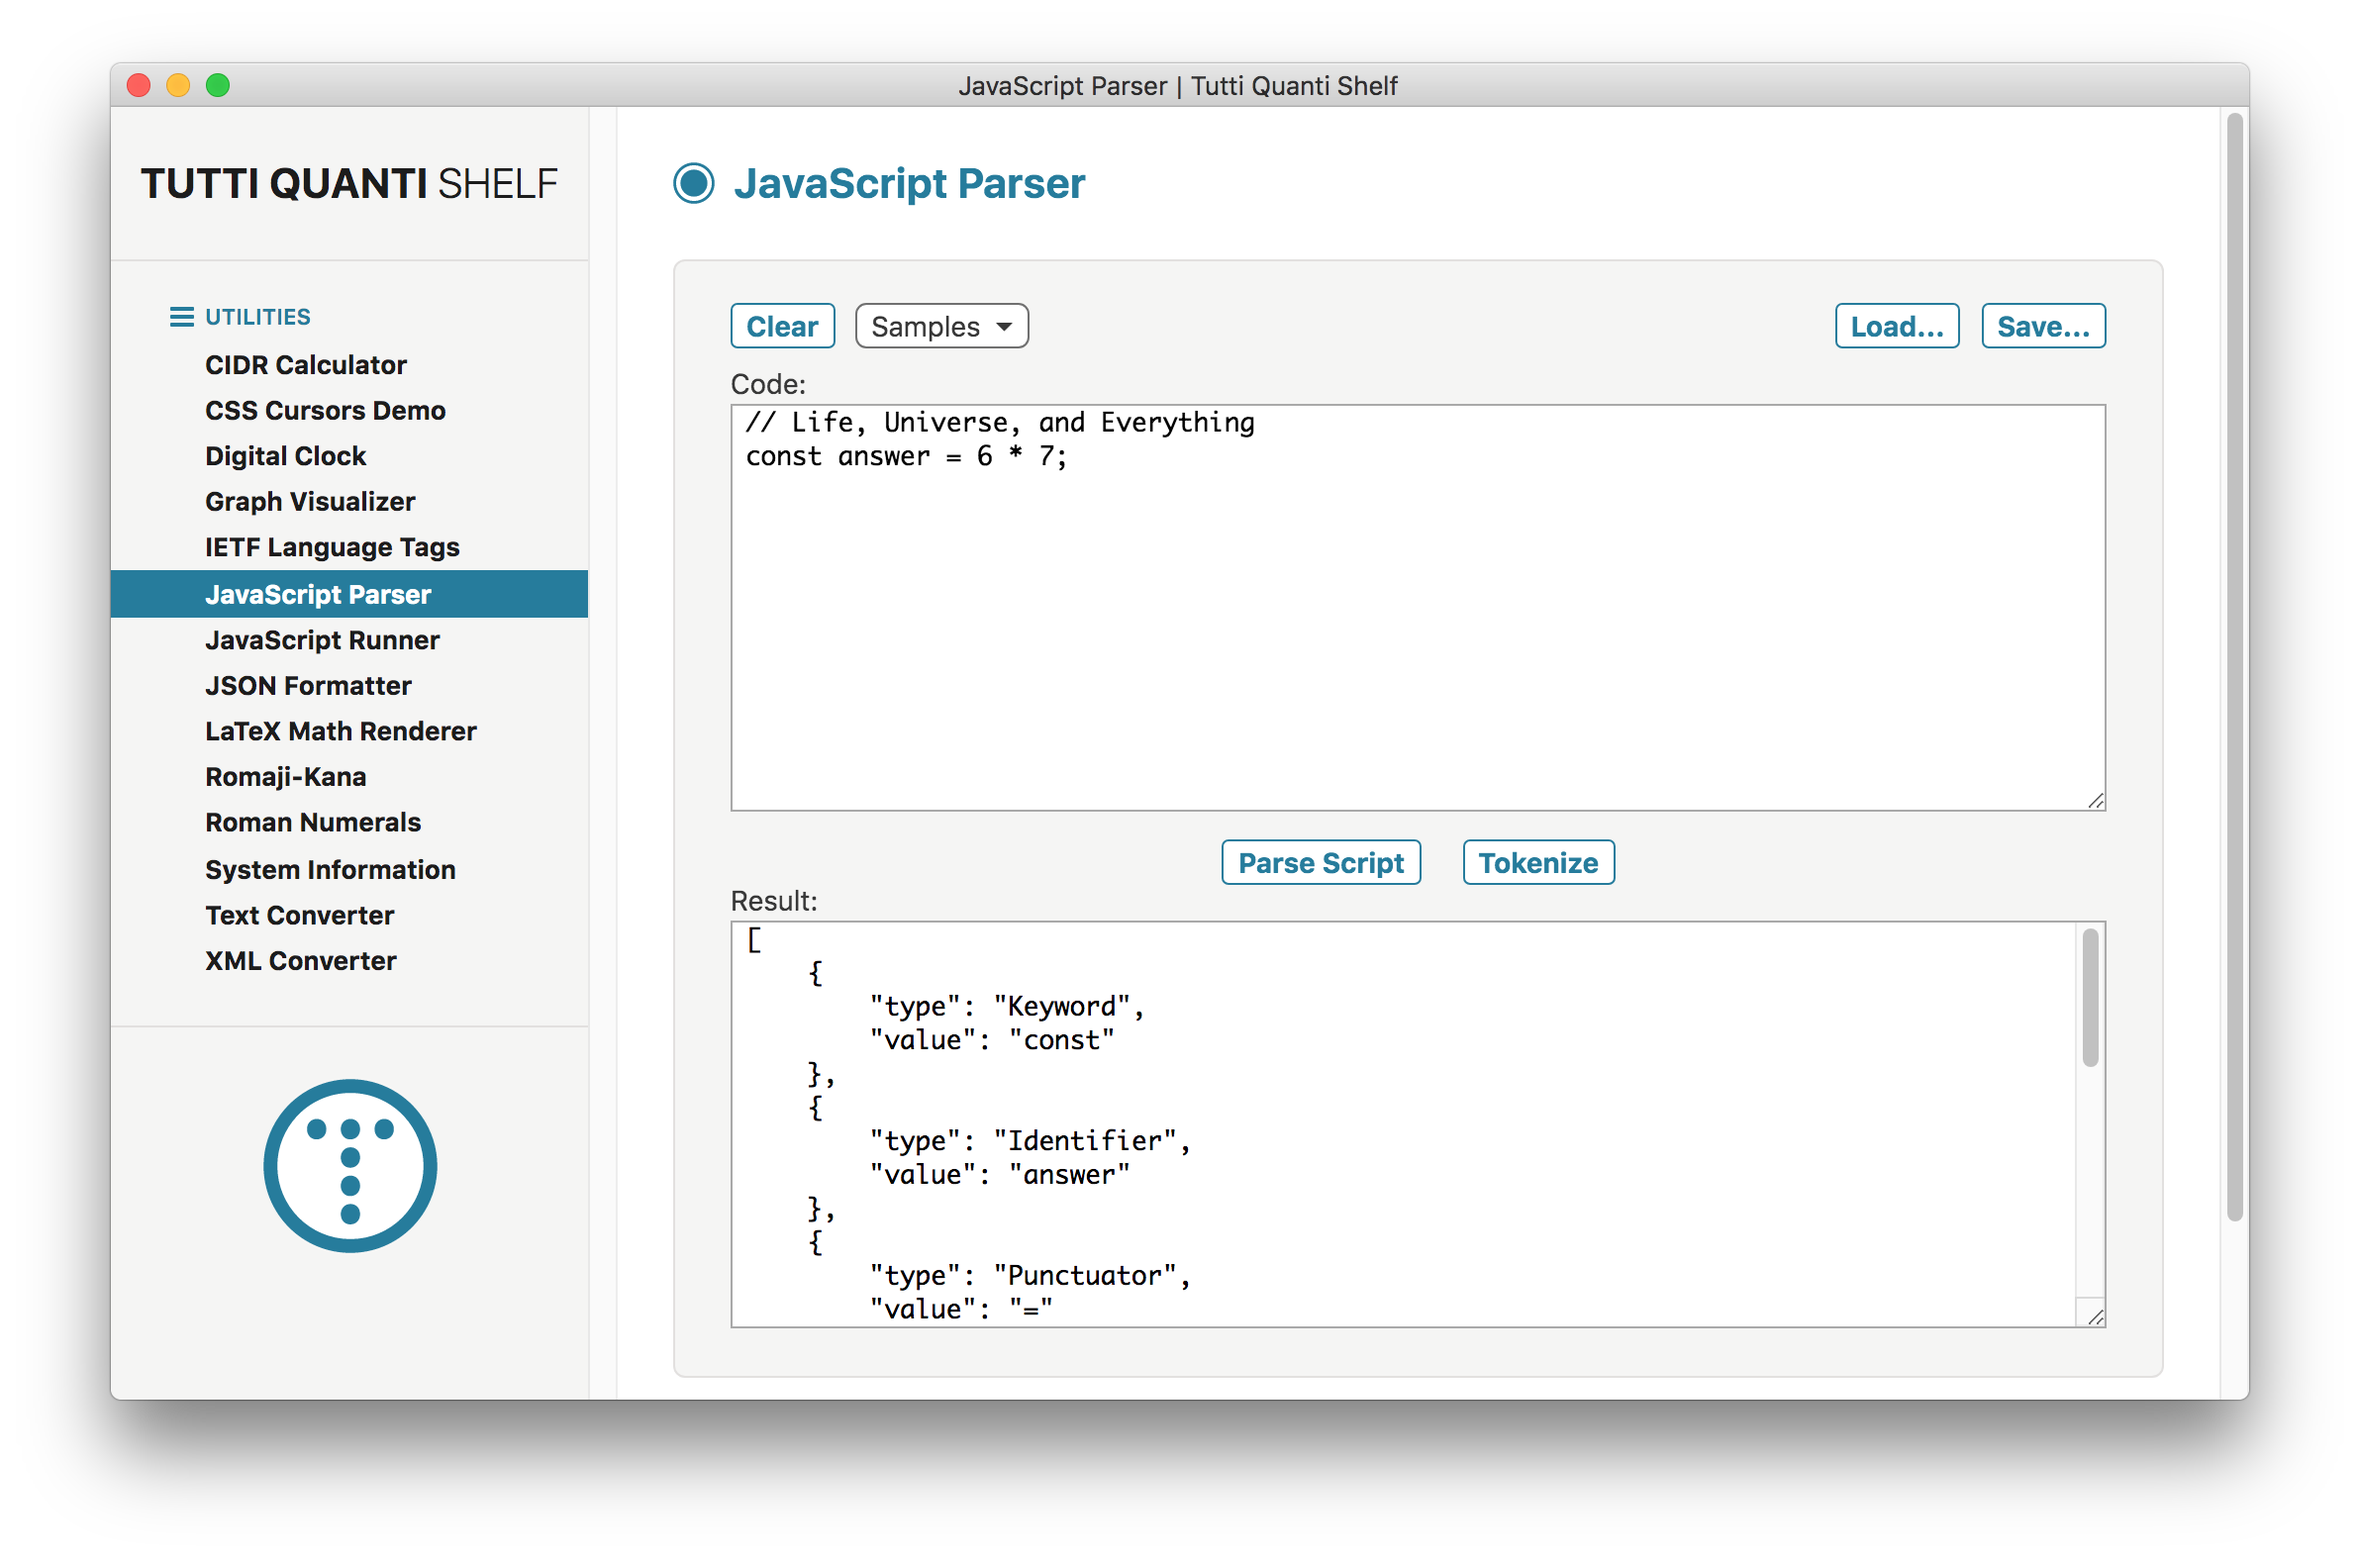
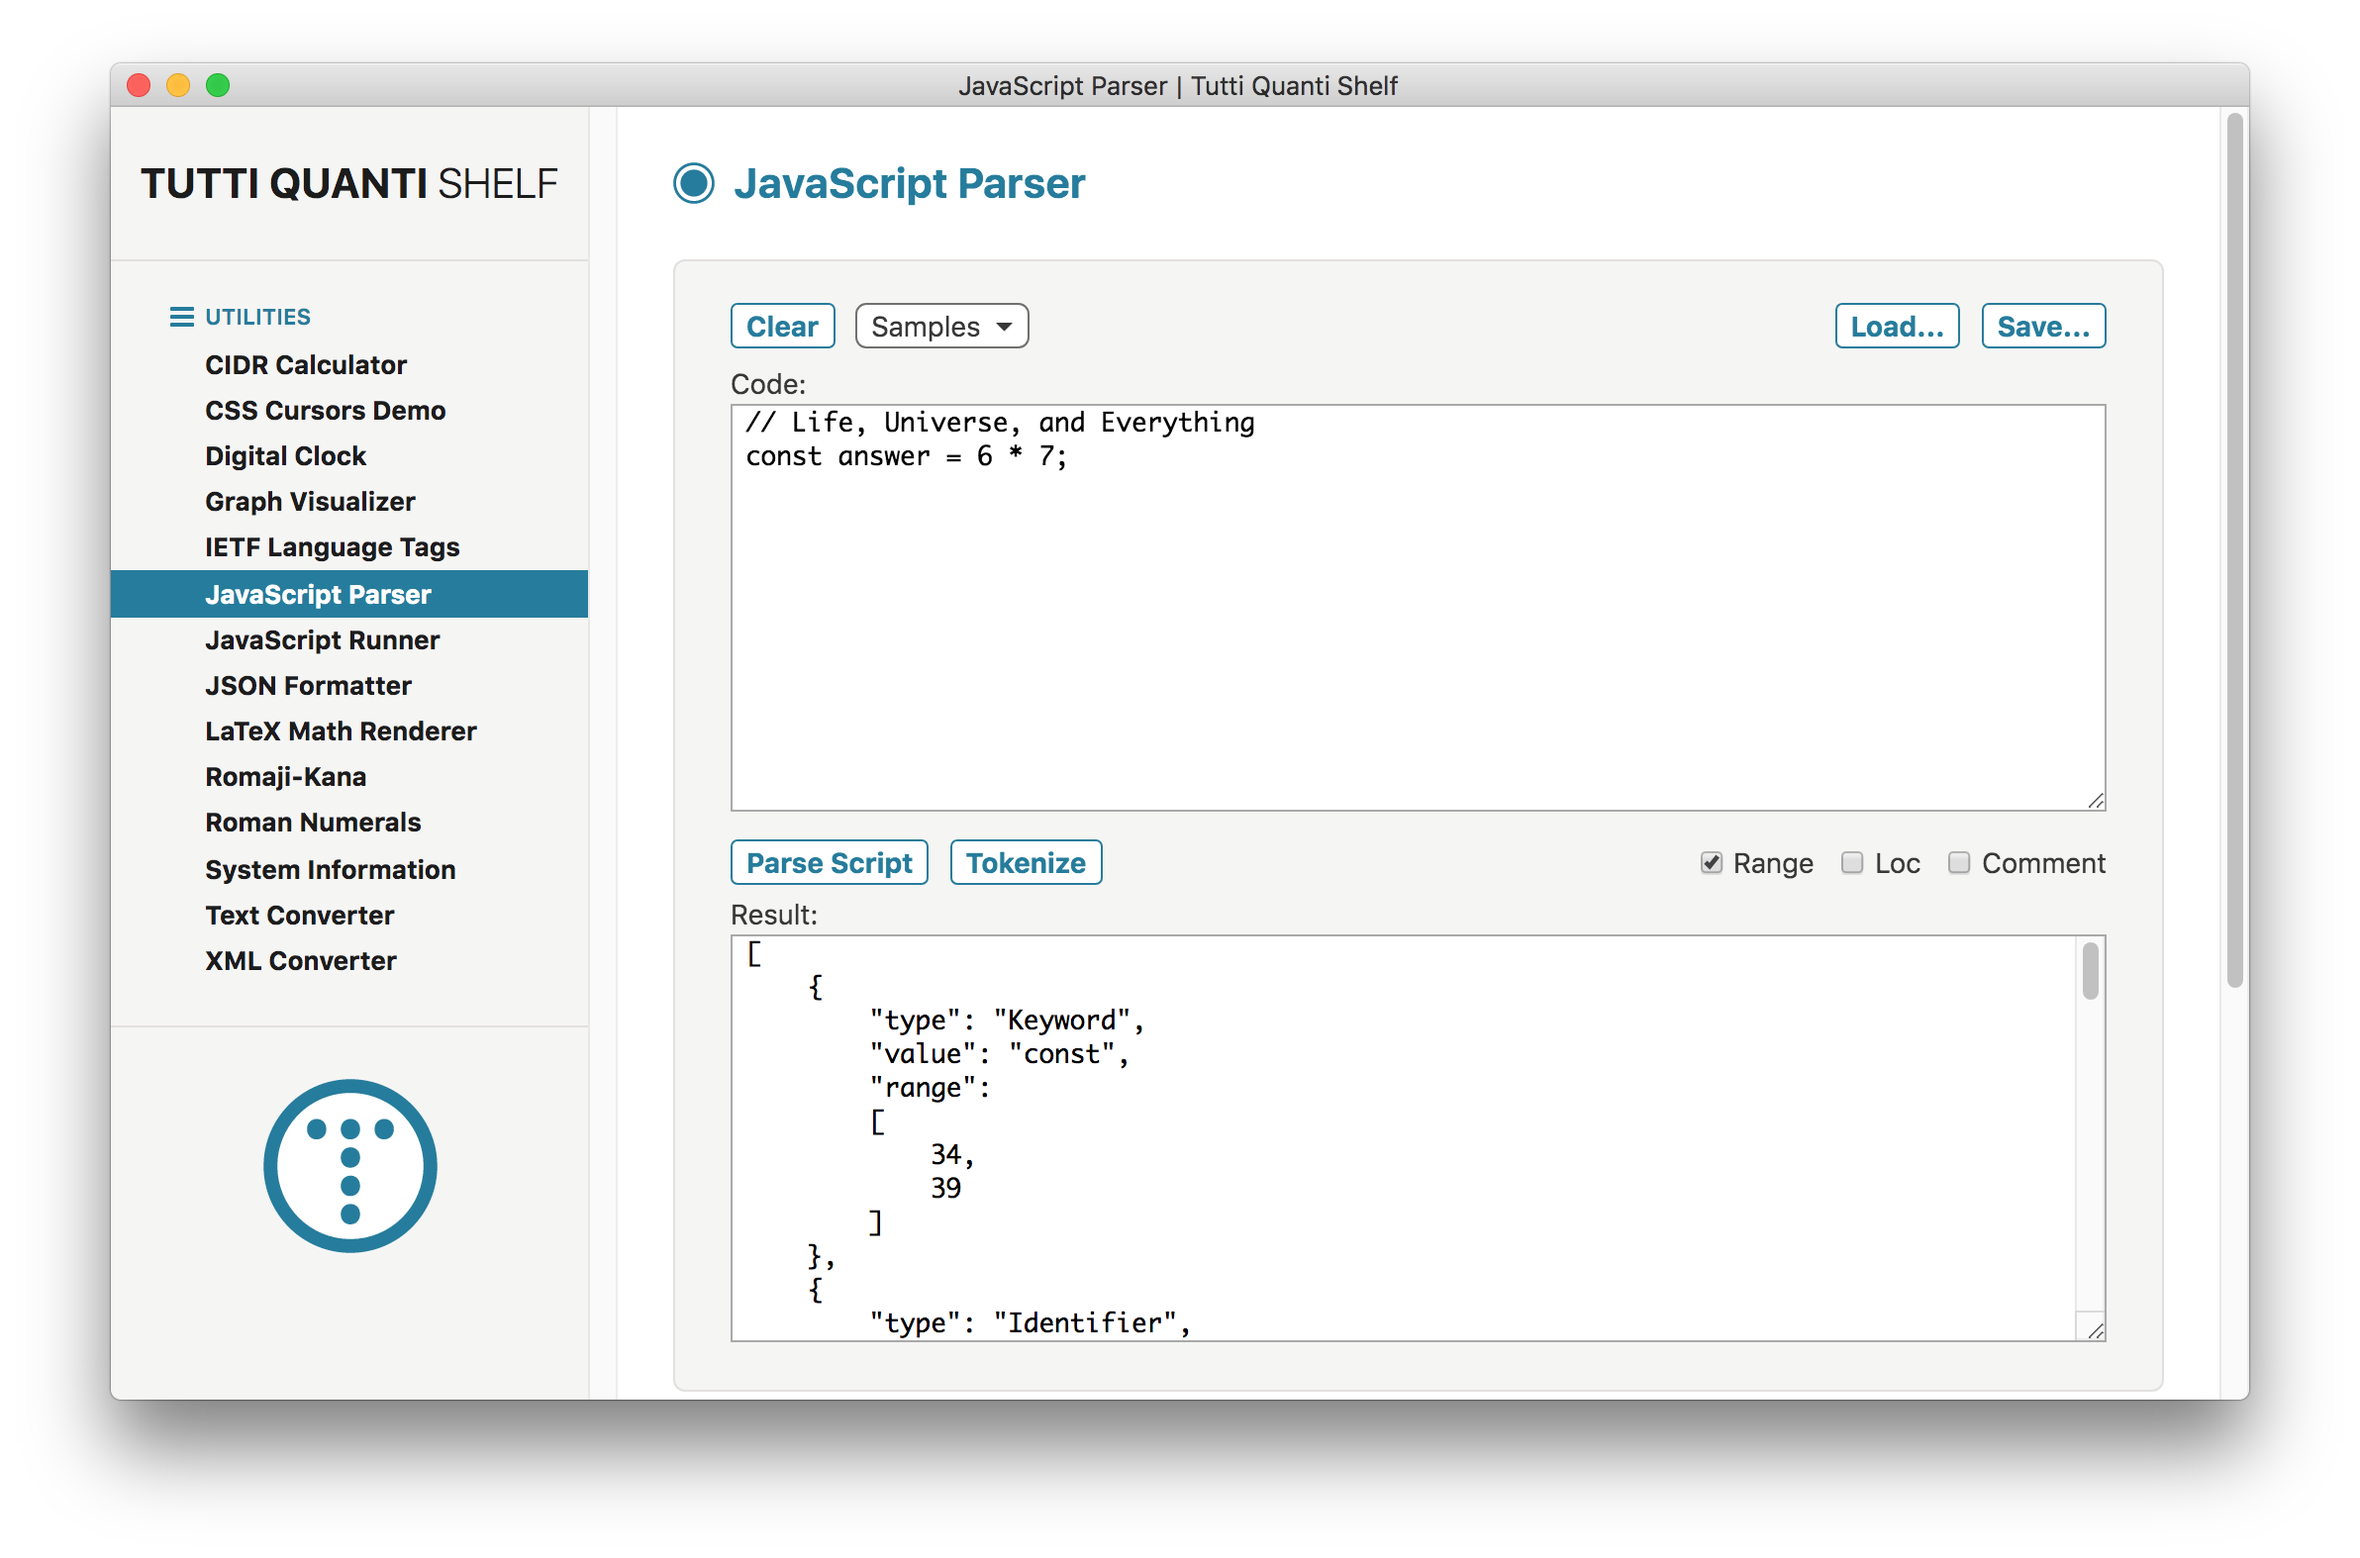
Updated app to version 1.11.0

diff --git a/renderer/units/JavaScript Parser/import.js b/renderer/units/JavaScript Parser/import.js
@@ -8,6 +8,9 @@ const saveButton = unit.querySelector ('.save-button');
 const codeString = unit.querySelector ('.code-string');
 const parseButton = unit.querySelector ('.parse-button');
 const tokenizeButton = unit.querySelector ('.tokenize-button');
+const rangeCheckbox = unit.querySelector ('.range-checkbox');
+const locCheckbox = unit.querySelector ('.loc-checkbox');
+const commentCheckbox = unit.querySelector ('.comment-checkbox');
 const resultString = unit.querySelector ('.result-string');
 //
 const references = unit.querySelector ('.references');
@@ -35,6 +38,9 @@ module.exports.start = function (context)
     const defaultPrefs =
     {
         codeString: "",
+        rangeCheckbox: false,
+        locCheckbox: false,
+        commentCheckbox: false,
         defaultFolderPath: context.defaultFolderPath,
         references: false
     };
@@ -209,6 +215,19 @@ module.exports.start = function (context)
             event.dataTransfer.clearData ();
         };
     //
+    rangeCheckbox.checked = prefs.rangeCheckbox;
+    locCheckbox.checked = prefs.locCheckbox;
+    commentCheckbox.checked = prefs.commentCheckbox;
+    //
+    function getCurrentOptions ()
+    {
+        let currentOptions = { };
+        currentOptions.range = rangeCheckbox.checked;
+        currentOptions.loc = locCheckbox.checked;
+        currentOptions.comment = commentCheckbox.checked;
+        return currentOptions;
+    }
+    //
     function adjustRegexLiteral (key, value)
     {
         if ((key === 'value') && (value instanceof RegExp))
@@ -222,7 +241,8 @@ module.exports.start = function (context)
     {
         resultString.classList.remove ('parse-error');
         resultString.value = "";
-        if (codeString.value)
+        let script = codeString.value.trim ();
+        if (script)
         {
             setTimeout
             (
@@ -230,7 +250,7 @@ module.exports.start = function (context)
                 {
                     try
                     {
-                        resultString.value = json.stringify (parser (codeString.value), adjustRegexLiteral, 4);
+                        resultString.value = json.stringify (parser (script, getCurrentOptions ()), adjustRegexLiteral, 4);
                     }
                     catch (e)
                     {
@@ -273,6 +293,9 @@ module.exports.stop = function (context)
     let prefs =
     {
         codeString: codeString.value,
+        rangeCheckbox: rangeCheckbox.checked,
+        locCheckbox: locCheckbox.checked,
+        commentCheckbox: commentCheckbox.checked,
         defaultFolderPath: defaultFolderPath,
         references: references.open
     };

diff --git a/renderer/units/JavaScript Parser/import.html b/renderer/units/JavaScript Parser/import.html
@@ -20,11 +20,24 @@
         </div>
         <label>Code:<textarea class="code-string" rows="12"></textarea></label>
         <div class="interface">
-            <span class="option">
-                <button class="parse-button" type="button">Parse&nbsp;Script</button>
+            <span class="option-group">
+                <span class="option">
+                    <button class="parse-button" type="button">Parse&nbsp;Script</button>
+                </span>
+                <span class="option">
+                    <button class="tokenize-button" type="button">Tokenize</button>
+                </span>
             </span>
-            <span class="option">
-                <button class="tokenize-button" type="button">Tokenize</button>
+            <span class="option-group">
+                <span class="option">
+                    <label class="checkbox" title=""><input class="range-checkbox" type="checkbox">&nbsp;Range</label>
+                </span>
+                <span class="option">
+                    <label class="checkbox" title=""><input class="loc-checkbox" type="checkbox">&nbsp;Loc</label>
+                </span>
+                <span class="option">
+                    <label class="checkbox" title=""><input class="comment-checkbox" type="checkbox">&nbsp;Comment</label>
+                </span>
             </span>
         </div>
         <label>Result:<textarea class="result-string" rows="12" readonly></textarea></label>

diff --git a/renderer/units/JSON Formatter/import.js b/renderer/units/JSON Formatter/import.js
@@ -64,7 +64,8 @@ module.exports.start = function (context)
     {
         let error = false;
         let output = '';
-        if (input)
+        let string = input.trim ();
+        if (string)
         {
             try
             {
@@ -77,7 +78,7 @@ module.exports.start = function (context)
                 {
                     space = '\t';
                 }
-                output = (balancedSpacing.checked ? json : JSON).stringify (JSON.parse (input), null, space);
+                output = (balancedSpacing.checked ? json : JSON).stringify (JSON.parse (string), null, space);
                 if (finalLineBreak.checked)
                 {
                     output += "\n";

diff --git a/renderer/units/JavaScript Parser/import.css b/renderer/units/JavaScript Parser/import.css
@@ -44,14 +44,23 @@
 {
     display: flex;
     flex-direction: row;
-    justify-content: center;
+    justify-content: space-between;
     align-items: center;
-    margin: 1em 0 -0.25em 0;
+    margin: 1em 0 0.25em 0;
 }
 
-#javascript-parser-unit .option + .option
+#javascript-parser-unit .option-group
 {
-    margin-left: 0.75em;
+    padding: 0;
+    display: flex;
+    flex-direction: row;
+    justify-content: center;
+    align-items: center;
+}
+
+#javascript-parser-unit .option .checkbox
+{
+    margin-left: 1em;
 }
 
 #javascript-parser-unit .option .parse-button

diff --git a/CHANGES.md b/CHANGES.md
@@ -2,6 +2,12 @@
 
 This project adheres to [Semantic Versioning](https://semver.org/).
 
+## 1.11.0
+
+- Added three parser option checkboxes to the **JavaScript Parser** utility: `Range`, `Loc`, `Comment`.
+- Added reference links to `Esprima` documentation in the **JavaScript Parser** utility.
+- Added trimming of input string to avoid cryptic error messages in the **JSON Formatter** utility.
+
 ## 1.10.1
 
 - Fixed 1 low severity vulnerability.
